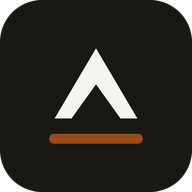
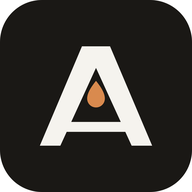
Redesign the mark: the letter A, drawn as a still
The chevron-and-rule was pure abstraction — geometry with no object, no
story, and nothing for the eye to catch. It could have belonged to anyone.

The new mark is the initial "A" as a piece of apparatus. The flat top is the
vessel's mouth (the one deliberate break from a letterform, and what stops it
reading as just an A); the legs splay to the baseline and the counter between
them is the vessel's interior; a single drop of distillate hangs inside it,
falling towards the crossbar, which is the liquid line it lands on. One
letter, one drop, one process caught mid-step.

Ink is the apparatus — the craft, the engineering, the studio. Oxide is the
substance — the product, the thing transformed. That is now the reason the
drop is the only coloured element in the whole system.

Designing it against rendered sizes rather than imagining it changed almost
everything. The findings are recorded in the script so they are not
rediscovered later:

  - The counter is a V, so it is narrow near the mouth. The drop has to hang
    low enough that the V is wider than it, or it collides with the legs.
  - It also has to clear the crossbar by enough to survive 22 px. The first
    geometry left a gap of under one pixel and the two merged into a blob.
  - The crossbar is a wedge, not a rectangle. A rectangle wide enough to meet
    the legs at its bottom corners is too wide at the top, because the legs'
    inner edges diverge as they descend.
[…]

Changed region(s): [[0.1875, 0.2188, 0.8125, 0.7812]]

diff --git a/src/index.html b/src/index.html
@@ -54,8 +54,9 @@
   <div class="wrap header-inner">
     <a class="brand" href="#top" aria-label="Alchamentry, home">
       <svg class="brand-mark" viewBox="0 0 64 64" aria-hidden="true" focusable="false">
-        <path d="M32 5.5 55 44.5 45.6 44.5 32 25.5 18.4 44.5 9 44.5Z" fill="currentColor"/>
-        <rect x="6" y="53" width="52" height="5.5" rx="2.75" class="brand-mark-rule"/>
+        <path d="M25.5 9H38.5L58 55H48.5L32 19L15.5 55H6Z" fill="currentColor"/>
+        <path d="M19.04 44H44.96L47.07 48.6H16.93Z" fill="currentColor"/>
+        <path class="brand-mark-drop" d="M32 25c2.95 3.61 4.1 6.15 4.1 8.2a4.1 4.1 0 0 1-8.2 0c0-2.05 1.15-4.59 4.1-8.2Z"/>
       </svg>
       <span class="brand-word">Alchamentry</span>
     </a>
@@ -256,8 +257,9 @@
   <div class="wrap footer-inner">
     <div class="footer-brand">
       <svg class="brand-mark" viewBox="0 0 64 64" aria-hidden="true" focusable="false">
-        <path d="M32 5.5 55 44.5 45.6 44.5 32 25.5 18.4 44.5 9 44.5Z" fill="currentColor"/>
-        <rect x="6" y="53" width="52" height="5.5" rx="2.75" class="brand-mark-rule"/>
+        <path d="M25.5 9H38.5L58 55H48.5L32 19L15.5 55H6Z" fill="currentColor"/>
+        <path d="M19.04 44H44.96L47.07 48.6H16.93Z" fill="currentColor"/>
+        <path class="brand-mark-drop" d="M32 25c2.95 3.61 4.1 6.15 4.1 8.2a4.1 4.1 0 0 1-8.2 0c0-2.05 1.15-4.59 4.1-8.2Z"/>
       </svg>
       <p class="footer-word">Alchamentry</p>
       <p class="footer-line">An independent software studio.</p>

diff --git a/src/assets/css/site.css b/src/assets/css/site.css
@@ -254,9 +254,12 @@ a { color: inherit; text-decoration: none; }
 
 .brand-mark { width: 22px; height: 22px; color: var(--ink); flex: none; }
 
-/* The rule under the chevron takes the surface's accent, so the mark lightens
-   automatically on the dark bands. */
-.brand-mark-rule { fill: var(--accent); }
+/* The mark is the letter A drawn as a still: the flat top is the vessel's
+   mouth, the counter is its interior, the crossbar is the liquid line, and the
+   drop is the distillate. Ink is the apparatus and oxide is the substance,
+   which is why the drop is the only coloured element in the system — and why
+   it takes the surface's accent, so it lifts on its own on the dark bands. */
+.brand-mark-drop { fill: var(--accent); }
 
 .brand-word {
   font-size: 1.0625rem;

diff --git a/DESIGN.md b/DESIGN.md
@@ -62,7 +62,7 @@ Contrast is measured from the rendered page, not from the token values. On `--pa
 ink 15.98:1, ink-2 7.13:1, ink-3 4.79:1, accent 5.56:1. On the `#1A1815` bands:
 ink 15.98:1, ink-2 7.94:1, ink-3 4.82:1, accent 6.49:1. Every one of the 28 distinct
 text styles on the page clears WCAG AA (4.5:1, or 3:1 for display type). The dark
-bands re-declare `--ink-*` and `--accent` locally, which is why the mark's rule and
+bands re-declare `--ink-*` and `--accent` locally, which is why the mark's drop and
 the section numerals lighten on their own.
 
 **Product colours.** Never used as page colour — only as a 44 px icon tile and a
@@ -148,15 +148,49 @@ script is a hairline on the sticky header once the page has scrolled.
 | Remote Days mark | Real, from the product's own brand kit (disc + threshold rule, `#2563EB`) |
 | Toolbit mark | Real, from `toolbit.app/icon.svg` |
 | Dentra mark | Real, cropped from the product's `logo.png` (D + tooth, wine → teal) |
-| Alchamentry mark | New: a chevron over a detached rule — the studio's own grammar, and the parent of Remote Days' *shape + rule* |
-
-The Alchamentry mark is deliberately built from the same two-part grammar as the
-Remote Days mark — a form, and a rule it sits above. That is the family resemblance
-between studio and product, and it is the only branding idea on the page.
+| Alchamentry mark | Designed: the letter **A** drawn as a still. Generated by `scripts/mark.mjs` |
 
 ---
 
-## 7. Budget
+## 7. The mark
+
+**The letter A, drawn as a still.** The flat top is the vessel's mouth — the one
+deliberate break from a normal letterform, and the thing that stops it reading as
+just an A. The legs splay to the baseline and the counter between them is the
+vessel's interior. A single drop of distillate hangs inside it, falling towards
+the crossbar, which is the liquid line it lands on. One letter, one drop, one
+process caught mid-step.
+
+**Ink is the apparatus; oxide is the substance.** The letter is the craft, the
+engineering, the studio. The drop is the product — the thing that has been
+transformed. This is the reason the drop is the only coloured element anywhere in
+the system, and it is why nothing else on the page is allowed to be oxide except
+links, section numerals and the eyebrow marker: they are all "the substance".
+
+**It has to work at 16 px.** The counter is a V, so it is narrow near the mouth —
+the drop therefore sits low, where the V is at least as wide as the drop, or it
+collides with the legs. The drop clears both legs by ~2.3 units at its belly; the
+crossbar overlaps each leg by 4.0 units at its top edge and 1.7 at its bottom, so
+letter, bar and drop read as one object rather than three shapes stacked up. Those
+numbers are the resolved values, and they are the reason the letterform is squatter
+and wider than a typographic A.
+
+| File | Use |
+| --- | --- |
+| `alchamentry-mark.svg` | Primary. On paper. |
+| `alchamentry-mark-inverse.svg` | On ink — the dark bands, the footer, dark surfaces. |
+| `alchamentry-mark-mono.svg` | One colour. The drop is knocked out, so the form survives without colour. |
+| `favicon.svg` | The plate. Opaque, so one file is correct on light and dark chrome alike. |
+| `alchamentry-plate-bleed.svg` | Full bleed, mark inside the maskable safe area. iOS and Android. |
+
+Re-run `npm run mark` after changing the geometry, then re-export the raster icons
+(README, *Editing*). The relationship to the products is a family one: Remote Days
+is also a *form above a rule*, and Dentra and Toolbit keep their own marks intact.
+There is deliberately no second branding idea on the page.
+
+---
+
+## 8. Budget
 
 | | Target |
 | --- | --- |

diff --git a/README.md b/README.md
@@ -35,9 +35,11 @@ src/
     css/site.css          one stylesheet, tokens at the top
     js/site.js            ~25 lines; a hairline on the sticky header
     products/             the three product marks
+    alchamentry-mark*.svg the studio mark, generated — see below
   fonts/                  Inter Tight + JetBrains Mono, self-hosted, woff2
 scripts/
   build.mjs               src/ -> dist/, with content hashing
+  mark.mjs                generates the studio mark (the geometry lives here)
   serve.mjs               tiny static server for local check
 ```
 
@@ -114,3 +116,24 @@ npm run deploy     # build, then `wrangler pages deploy` using wrangler.toml
 - **Product facts** are the one thing most likely to go stale. Remote Days'
   thresholds, Dentra's features and Toolbit's tool count come from the products
   themselves — re-check them when a product changes.
+
+### The mark
+
+`scripts/mark.mjs` is the source of truth for the logo's geometry — the numbers at
+the top of that file are the design, and the comments explain why each one is what
+it is. Nothing in the site build runs it.
+
+```sh
+npm run mark     # rewrites src/assets/alchamentry-mark*.svg and src/favicon.svg
+```
+
+After changing the geometry, re-export the raster icons (they are committed, and
+nothing generates them automatically):
+
+- `favicon.ico` (16/32/48), `icon-192.png`, `icon-512.png` — from `src/favicon.svg`
+- `apple-touch-icon.png`, `icon-maskable-512.png` — from `src/assets/alchamentry-plate-bleed.svg`
+- `og.png` — 1200×630, re-render the share card
+
+The mark also appears **inline** in `src/index.html`, twice (header and footer), and
+carries `class="brand-mark-drop"` so the CSS can colour the drop with the surface's
+accent. If you change the geometry, update those paths too.
